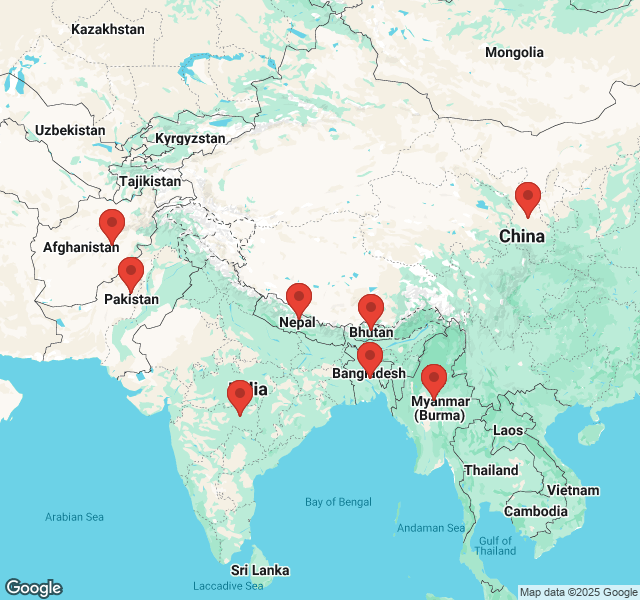
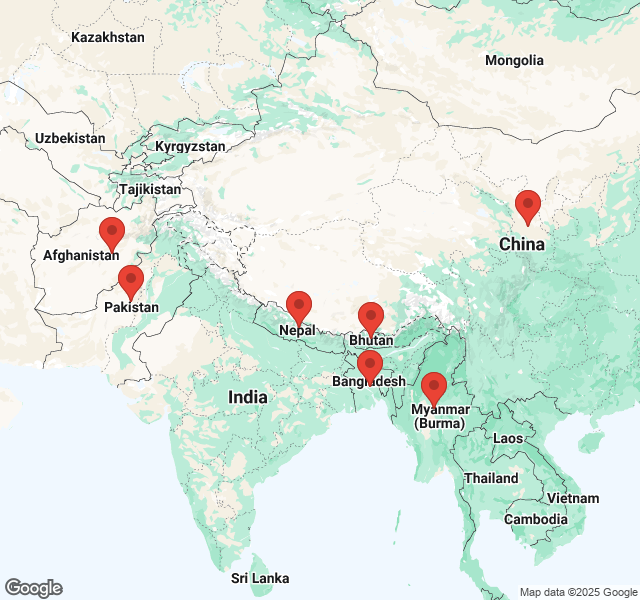
Before Claude

diff --git a/main_png.py b/main_png.py
@@ -6,6 +6,8 @@ import requests
 import urllib.parse
 import os
 from dotenv import load_dotenv
+from markupsafe import Markup
+
 
 load_dotenv()
 
@@ -19,39 +21,87 @@ model = genai.GenerativeModel('gemini-2.0-pro-exp')
 HTML_TEMPLATE = '''
 <form method="post" action="/get-coordinates">
     <h2>Location Prompt</h2>
-    <input type="text" name="prompt" value="{{ prompt }}" style="width:400px;" placeholder="Enter a location-based prompt">
+    <input type="text" name="prompt" value="{{ prompt }}" 
+    placeholder="Enter a location-based prompt"
+    style="
+        width: 600px;
+        height: 50px;
+        font-size: 18px;
+        background-color: #e0f0ff;
+        color: #003366;
+        border: 1px solid #ccc;
+        border-radius: 8px;
+        padding: 10px;
+        box-shadow: 0 2px 4px rgba(0,0,0,0.1);
+    ">
+
     <input type="submit" value="Generate Map">
 </form>
 {% if places %}
 <hr>
-<div style="display:flex; gap:40px;">
-    <div>
-        <h3>Generated Map</h3>
-        <label style="position:absolute; top:10px; right:20px;">
+
+<!-- Controls: Top right above table -->
+<div style="display: flex; justify-content: flex-end; margin-bottom: 10px;">
+    <div style="text-align: right;">
+        <select id="themeSelector" onchange="updateMap()" style="margin-bottom: 8px;">
+            <option value="default">🗺 Default</option>
+            <option value="dark">🌙 Dark</option>
+            <option value="light">💡 Light</option>
+            <option value="grayscale">🖤 Grayscale</option>
+            <option value="retro">🧡 Retro</option>
+            <option value="night">🌃 Night</option>
+            <option value="aubergine">🍆 Aubergine</option>
+        </select><br>
+        <label>
             <input type="checkbox" id="toggleLabels" checked onchange="updateMap()"> ✅ Show extracted location names
-        </label><br><br>
-        <img id="mapImage" src="/map.png?labels=1" alt="Map Image" style="border:1px solid #ccc;"><br><br>
+        </label>
     </div>
-    <div>
-        <h3>Historical Facts</h3>
-        <table border="1" cellpadding="8" cellspacing="0">
+</div>
+
+<!-- Main Content: Map and Table -->
+<div style="display: flex; gap: 40px; padding-top: 20px; align-items: flex-start;">
+    <!-- Map Section -->
+    <div style="width: 60%;">
+        <h3 style="margin: 0;">Generated Map</h3>
+        <img id="mapImage" src="/map.png?labels=1&theme=default" alt="Map Image" style="width: 100%; border: 1px solid #ccc; margin-top: 30px;">
+    </div>
+
+    <!-- Table Section -->
+    <div style="width: 40%;">
+        <h3 style="margin: 0;">Historical Facts</h3>
+        <table border="1" cellpadding="8" cellspacing="0" style="width: 100%; margin-top: 30px;">
             <tr><th>Location</th><th>Historical Fact</th></tr>
             {% for p in places %}
-            <tr><td>{{ p.name }}</td><td>{{ p.fact }}</td></tr>
+            <tr><td>{{ p.name }}</td><td>{{ p.fact | safe | highlight_keywords }}</td></tr>
             {% endfor %}
         </table>
     </div>
 </div>
+
 <script>
     function updateMap() {
         const show = document.getElementById('toggleLabels').checked ? 1 : 0;
-        document.getElementById('mapImage').src = '/map.png?labels=' + show + '&t=' + new Date().getTime();
+        const theme = document.getElementById('themeSelector').value;
+        document.getElementById('mapImage').src = `/map.png?labels=${show}&theme=${theme}&t=${new Date().getTime()}`;
     }
 </script>
 <br>
 <a href="/download-json">⬇ Download JSON</a>
 {% endif %}
 '''
+
+@app.template_filter('highlight_keywords')
+def highlight_keywords(text):
+    keywords = [
+        r"\b\d{3,4}\b",                     # years like 1947, 1066
+        r"\b(King|Queen|Empire|Dynasty|Revolution|War|Treaty|Battle|Discovery|Colonial|Independence|Invasion|Sultan|Maharaja)\b"
+    ]
+
+    for pattern in keywords:
+        text = re.sub(pattern, r'<span style="color:#007bff; font-weight:bold;">\1</span>' if '\\1' in pattern else r'<span style="color:#007bff; font-weight:bold;">\g<0></span>', text, flags=re.IGNORECASE)
+
+    return Markup(text)
+
 
 @app.route('/', methods=['GET'])
 def index():
@@ -99,6 +149,8 @@ def download_json():
 @app.route('/map.png')
 def map_png():
     show_labels = request.args.get("labels", "1") == "1"
+    theme = request.args.get("theme", "default")
+
     try:
         with open("coordinates.json", "r") as f:
             places = json.load(f)
@@ -109,30 +161,76 @@ def map_png():
     marker_params = []
 
     for place in places:
-        lat = place["latitude"]
-        lng = place["longitude"]
-        name = urllib.parse.quote(place["name"])
-        marker = f"markers=color:red%7Clabel:%7C{lat},{lng}"
-        if show_labels:
-            marker += f"&markers=label:{name}%7C{lat},{lng}"
-        marker_params.append(marker)
+     lat = place["latitude"]
+     lng = place["longitude"]
+     name = urllib.parse.quote(place["name"])
+     marker = f"markers=color:red%7Clabel:%7C{lat},{lng}"
+     if show_labels:
+        marker += f"&markers=label:{name}%7C{lat},{lng}"
+     marker_params.append(marker)
 
     markers = "&".join(marker_params)
 
     types = set([p.get("type", "").lower() for p in places])
     border_type = "country" if "country" in types else "province"
 
-    style = (
-        "style=element:labels|visibility:off"
-        "&style=feature:road|visibility:off"
-        "&style=feature:transit|visibility:off"
-        "&style=feature:poi|visibility:off"
-        "&style=feature:landscape|visibility:simplified"
-        "&style=feature:water|visibility:simplified"
-        f"&style=feature:administrative.{border_type}|visibility:on"
-    )
+    # Base styles (shared)
+    base_style = [
+        "style=element:labels|visibility:off",
+        "style=feature:road|visibility:off",
+        "style=feature:transit|visibility:off",
+        "style=feature:poi|visibility:off",
+        "style=feature:landscape|visibility:simplified",
+        f"style=feature:administrative.{border_type}|visibility:on",
+        "style=feature:water|color:0xf0f8ff"  # Keep water blue
+    ]
 
-    map_url = f"{base_url}?size=800x600&{markers}&{style}&key={GOOGLE_MAPS_API_KEY}"
+    # Theme-specific styles
+    theme_styles = {
+    "default": [],
+    "dark": [
+        "style=element:geometry|color:0x242f3e",
+        "style=element:labels.text.fill|color:0x746855",
+        "style=element:labels.text.stroke|color:0x242f3e",
+        f"style=feature:administrative.{border_type}|visibility:on",
+        f"style=feature:administrative.{border_type}|element:geometry.stroke|color:0xffffff"
+    ],
+    "light": [
+        "style=element:geometry|color:0xf5f5f5",
+        "style=element:labels.text.fill|color:0x616161",
+        "style=element:labels.text.stroke|color:0xf5f5f5",
+        f"style=feature:administrative.{border_type}|visibility:on",
+        f"style=feature:administrative.{border_type}|element:geometry.stroke|color:0x000000"
+    ],
+    "grayscale": [
+        "style=feature:all|saturation:-100",
+        f"style=feature:administrative.{border_type}|visibility:on",
+        f"style=feature:administrative.{border_type}|element:geometry.stroke|color:0x000000"
+    ],
+    "retro": [
+        "style=feature:all|element:geometry|color:0xf5deb3",
+        "style=element:labels.text.fill|color:0x333300",
+        f"style=feature:administrative.{border_type}|visibility:on",
+        f"style=feature:administrative.{border_type}|element:geometry.stroke|color:0x000000"
+    ],
+    "night": [
+        "style=element:geometry|color:0x0c0c0c",
+        "style=element:labels.text.fill|color:0xffffff",
+        f"style=feature:administrative.{border_type}|visibility:on",
+        f"style=feature:administrative.{border_type}|element:geometry.stroke|color:0xffffff"
+    ],
+    "aubergine": [
+        "style=element:geometry|color:0x2e003e",
+        "style=element:labels.text.fill|color:0xd2bfff",
+        f"style=feature:administrative.{border_type}|visibility:on",
+        f"style=feature:administrative.{border_type}|element:geometry.stroke|color:0xffffff"
+    ]
+   }
+
+    final_styles = base_style + theme_styles.get(theme, [])
+    style_param = "&".join(final_styles)
+
+    map_url = f"{base_url}?size=800x600&{markers}&{style_param}&key={GOOGLE_MAPS_API_KEY}"
     response = requests.get(map_url)
 
     with open("map.png", "wb") as f:

diff --git a/main_map.py b/main_map.py
@@ -34,7 +34,7 @@ HTML_TEMPLATE = '''
        <select id="themeSelect" onchange="updateMap()">
         <option value="default">🗺 Default</option>
         <option value="dark">🌒 Dark</option>
-        <option value="retro">📺 Retro</option>
+        <option value="retro">💼 Retro</option>
         <option value="night">🌃 Night</option>
         <option value="aubergine">🍆 Aubergine</option>
        </select>
@@ -59,9 +59,8 @@ HTML_TEMPLATE = '''
         document.getElementById('mapImage').src = `/map.png?labels=${show}&theme=${theme}&t=${new Date().getTime()}`;
     }
 </script>
-
 <br>
-<a href="/download-json">⬇ Download JSON</a>
+<a href="/download-json">💾 Download JSON</a>
 {% endif %}
 '''
 
@@ -73,18 +72,15 @@ def index():
 def get_coordinates():
     prompt = request.form.get("prompt")
 
-    full_prompt = f"""
-You are an AI assistant. Given a user prompt that may mention one or more locations, extract each distinct place and return a JSON list.
-
+    full_prompt = f"""You are an AI assistant. Given a user prompt that may mention one or more locations, extract each distinct place and return a JSON list.
 Each item must contain:
 - "name" (name of the location),
 - "latitude",
 - "longitude",
 - "fact" (one historical fact about that location),
 - "type" (either "country", "city", or "region")
-
 Only return the raw JSON array.
-Prompt: \"\"\"{prompt}\"\"\"
+Prompt: "{prompt}"
 """
 
     try:
@@ -112,7 +108,7 @@ def download_json():
 def map_png():
     show_labels = request.args.get("labels", "1") == "1"
     theme = request.args.get("theme", "default")
-    
+
     try:
         with open("coordinates.json", "r") as f:
             places = json.load(f)
@@ -127,27 +123,31 @@ def map_png():
         lng = place["longitude"]
         name = urllib.parse.quote(place["name"])
         marker = f"markers=color:red%7Clabel:%7C{lat},{lng}"
+
         if show_labels:
-            marker += f"&markers=label:{name}%7C{lat},{lng}"
+            marker = f"markers=color:red%7Clabel:{name[0].upper()}%7C{lat},{lng}"
+        else:
+            marker = f"markers=color:red%7Clabel:%7C{lat},{lng}"
         marker_params.append(marker)
 
     markers = "&".join(marker_params)
 
-    types = set([p.get("type", "").lower() for p in places])
-    border_type = "country" if "country" in types else "province"
+    types = [p.get("type", "").lower() for p in places]
+    num_countries = sum(1 for t in types if t == "country")  
 
-    # Common styling
+    # If 2 or more distinct countries are mentioned, treat it as international
+    context = "international" if num_countries >= 2 else "national"
+
     style = [
-        "style=element:labels|visibility:off",
+        "style=feature:road|element:labels|visibility:off",
+        "style=feature:poi|element:labels|visibility:off",
+        "style=feature:transit|element:labels|visibility:off",
         "style=feature:road|visibility:off",
         "style=feature:transit|visibility:off",
         "style=feature:poi|visibility:off",
-        "style=feature:landscape|visibility:simplified",
-        "style=feature:water|visibility:simplified",
-        f"style=feature:administrative.{border_type}|visibility:on"
+        "style=feature:landscape|visibility:simplified"
     ]
 
-    # Add theme-specific styling
     themes = {
         "dark": [
             "style=feature:all|element:labels.text.fill|color:0xffffff",
@@ -172,16 +172,55 @@ def map_png():
     if theme in themes:
         style.extend(themes[theme])
 
+    style.append("style=feature:water|element:geometry|color:0xcceeff")
+
+    if context == "international":
+    # Show only country labels and borders
+     style.extend([
+        # Country labels and borders ON
+        "style=feature:administrative.country|element:geometry.stroke|visibility:on|color:0x000000|weight:1.5",
+        "style=feature:administrative.country|element:labels.text.fill|visibility:on|color:0x000000",
+        "style=feature:administrative.country|element:labels.text.stroke|visibility:on|color:0xffffff",
+        "style=feature:administrative.country|element:labels.icon|visibility:off",
+
+        # Province everything OFF
+        "style=feature:administrative.province|element:geometry.stroke|visibility:off",
+        "style=feature:administrative.province|element:labels|visibility:off",
+        "style=feature:administrative.province|element:labels.text.fill|visibility:off",
+        "style=feature:administrative.province|element:labels.text.stroke|visibility:off",
+        "style=feature:administrative.province|element:labels.icon|visibility:off"
+        "style=feature:administrative.province|visibility:off"
+
+    ])
+    else:
+    # Show only province labels and borders
+     style.extend([
+        # Province labels and borders ON
+        "style=feature:administrative.province|element:geometry.stroke|visibility:on|color:0x000000|weight:1.5",
+        "style=feature:administrative.province|element:labels.text.fill|visibility:on|color:0x000000",
+        "style=feature:administrative.province|element:labels.text.stroke|visibility:on|color:0xffffff",
+        "style=feature:administrative.province|element:labels.icon|visibility:off",
+
+        # Country everything OFF
+        "style=feature:administrative.country|element:geometry.stroke|visibility:off",
+        "style=feature:administrative.country|element:labels|visibility:off",
+        "style=feature:administrative.country|element:labels.text.fill|visibility:off",
+        "style=feature:administrative.country|element:labels.text.stroke|visibility:off",
+        "style=feature:administrative.country|element:labels.icon|visibility:off"
+    ])
+
+
     style_string = "&".join(style)
     map_url = f"{base_url}?size=800x600&{markers}&{style_string}&key={GOOGLE_MAPS_API_KEY}"
 
     response = requests.get(map_url)
+    if os.path.exists("map.png"):
+     os.remove("map.png")
 
     with open("map.png", "wb") as f:
-        f.write(response.content)
+     f.write(response.content)
 
     return send_file("map.png", mimetype="image/png")
-
 
 if __name__ == '__main__':
     app.run(debug=True)

diff --git a/README.md b/README.md
@@ -1,1 +1,6 @@
 # CustomMap
+
+#### It makes custom google map png of given prompt. 
+
+Example:
+
